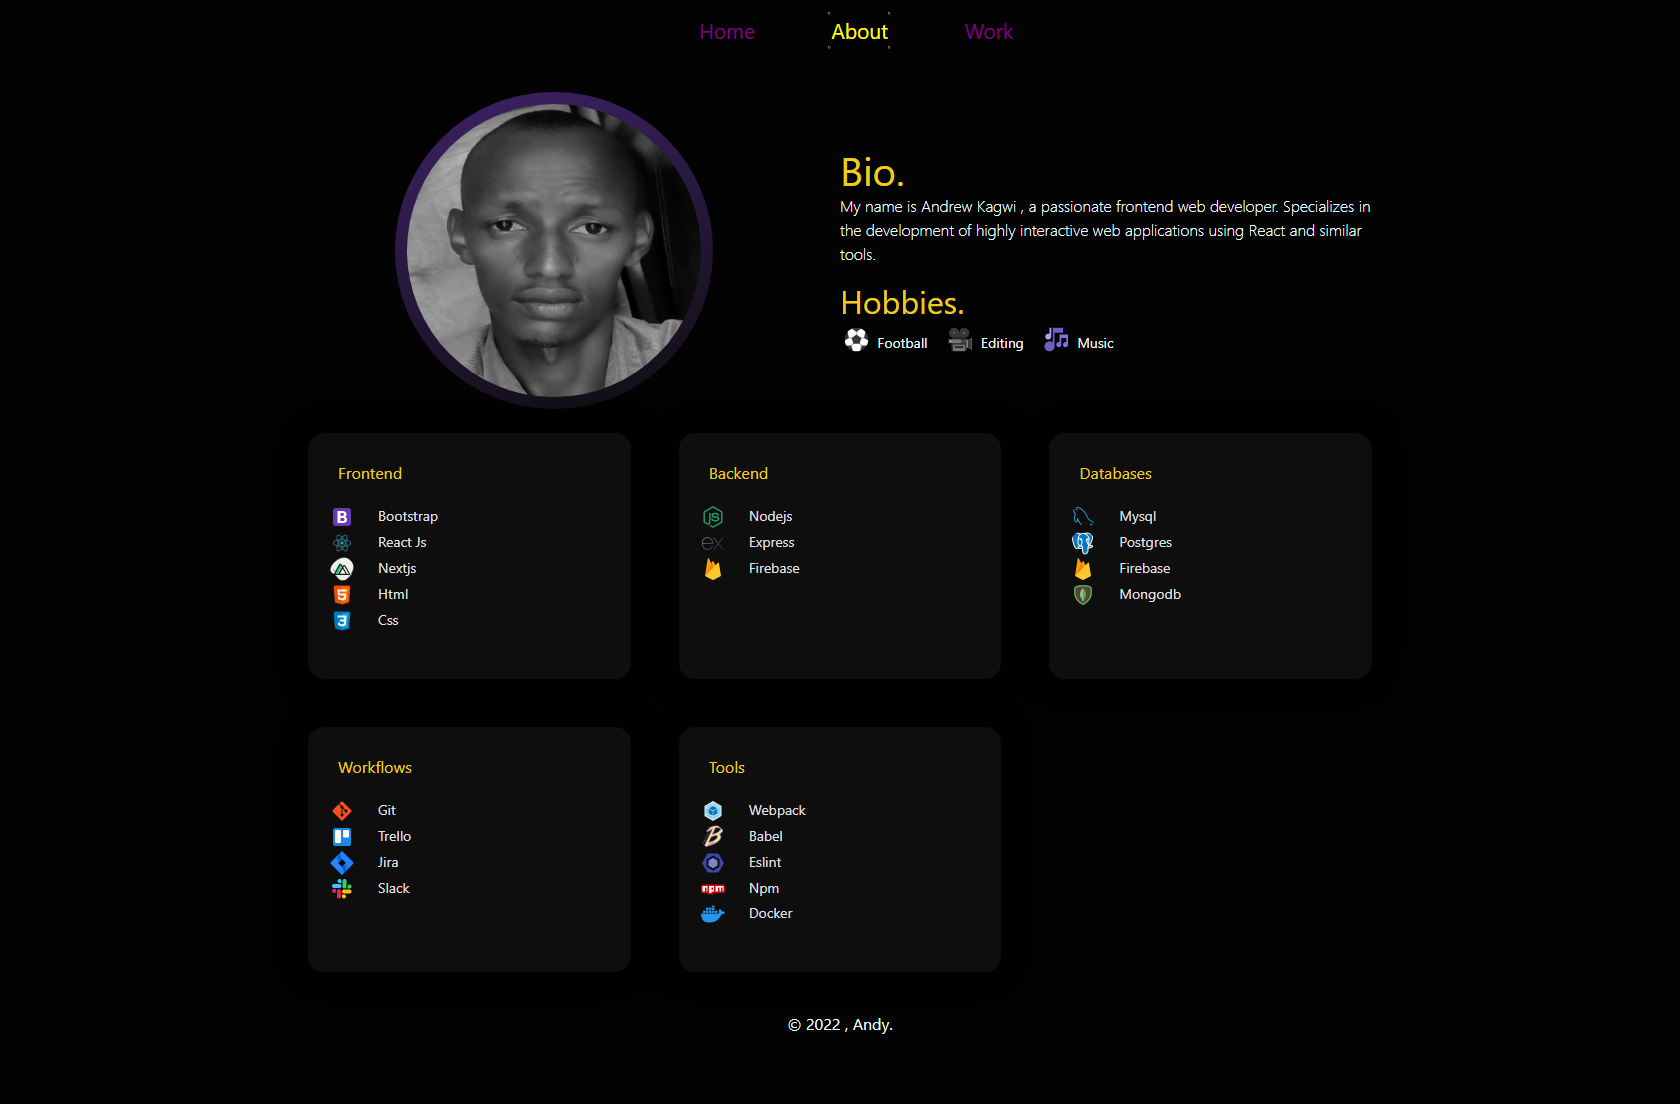
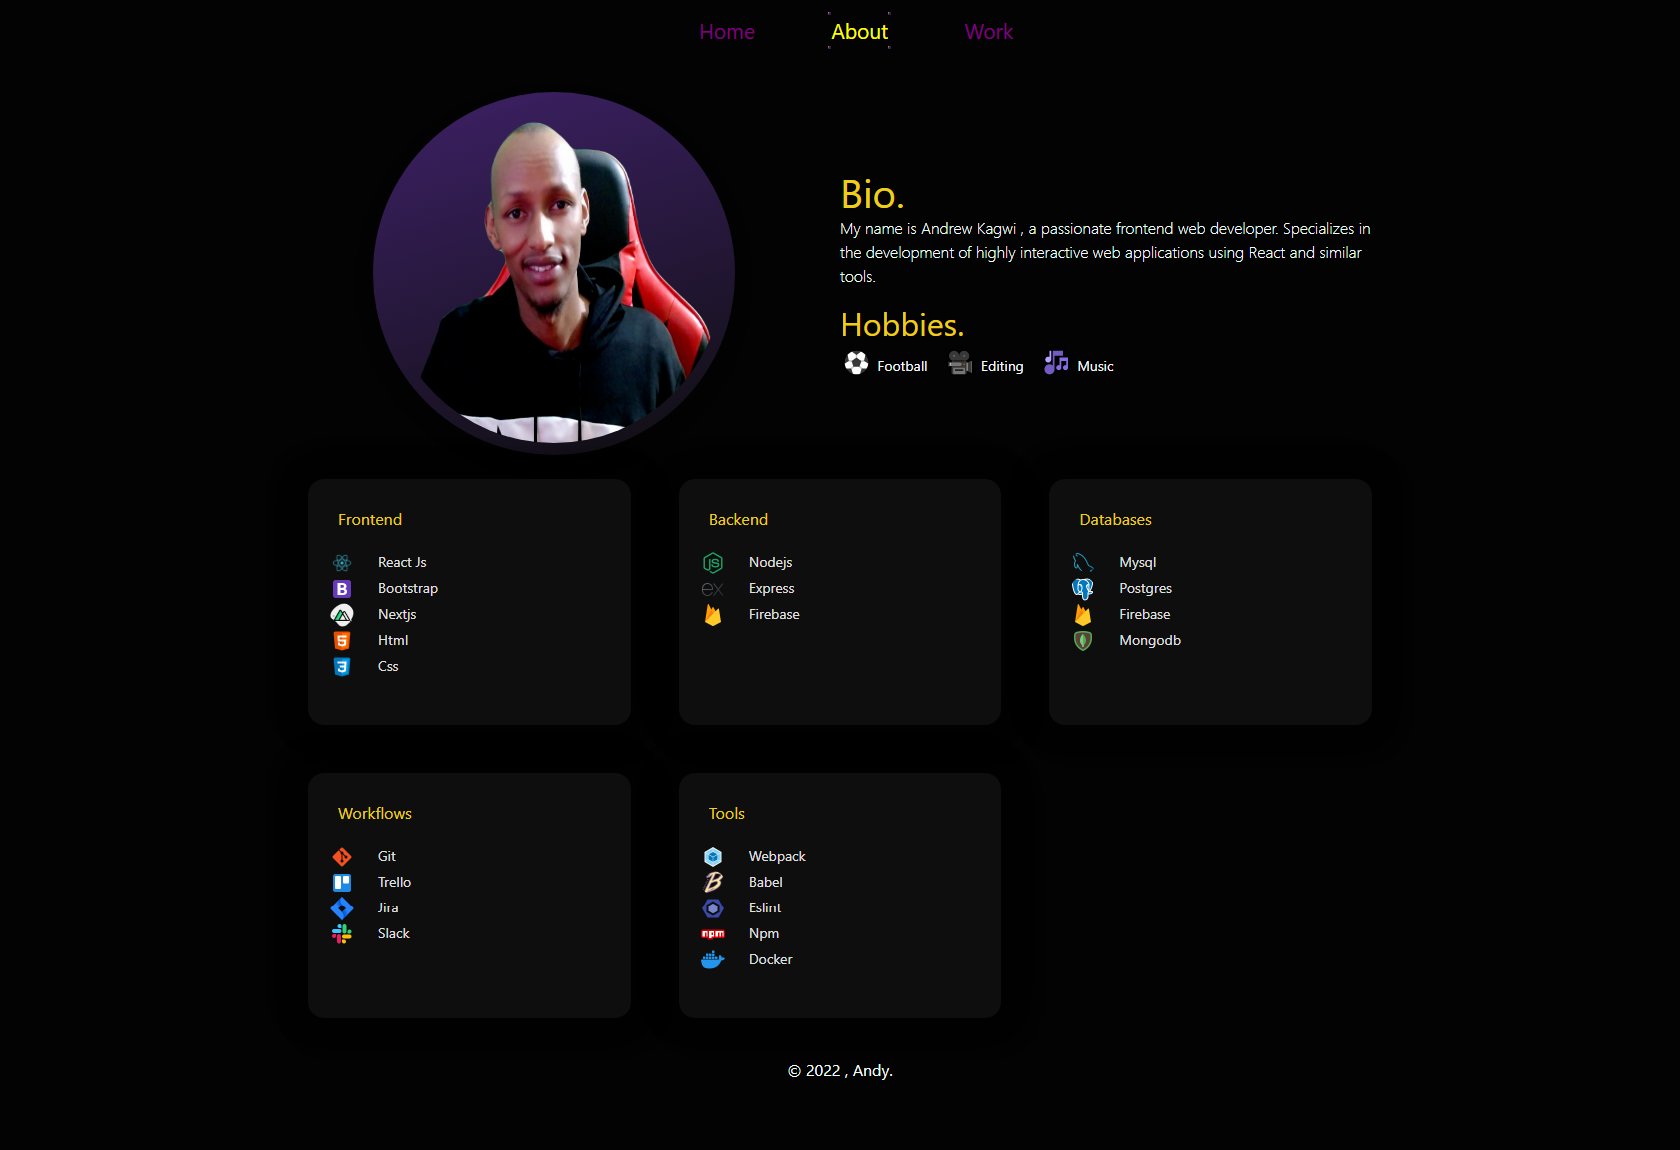
code refactored and images adjustments

diff --git a/src/pages/about.elements.jsx b/src/pages/about.elements.jsx
@@ -75,6 +75,8 @@ width: 35vh;
 padding: 0.75rem;
 margin-bottom: 1rem;
 margin-right: 2rem;
+max-width: 100%;
+box-shadow: 0 0.5rem 1rem #0006;
 background: -webkit-linear-gradient(107deg, #0e0e0f, #3e2167);
 
 @media (min-width: 481px) and (max-width: 767px) {

diff --git a/src/data/index.js b/src/data/index.js
@@ -1,5 +1,5 @@
 /* eslint-disable max-len */
-import self from '../img/dp.jpg';
+import self from '../img/kagz.png';
 import spruce from '../img/spruce.png';
 import dapps from '../img/dapps.png';
 import michezo from '../img/michezo.png';
